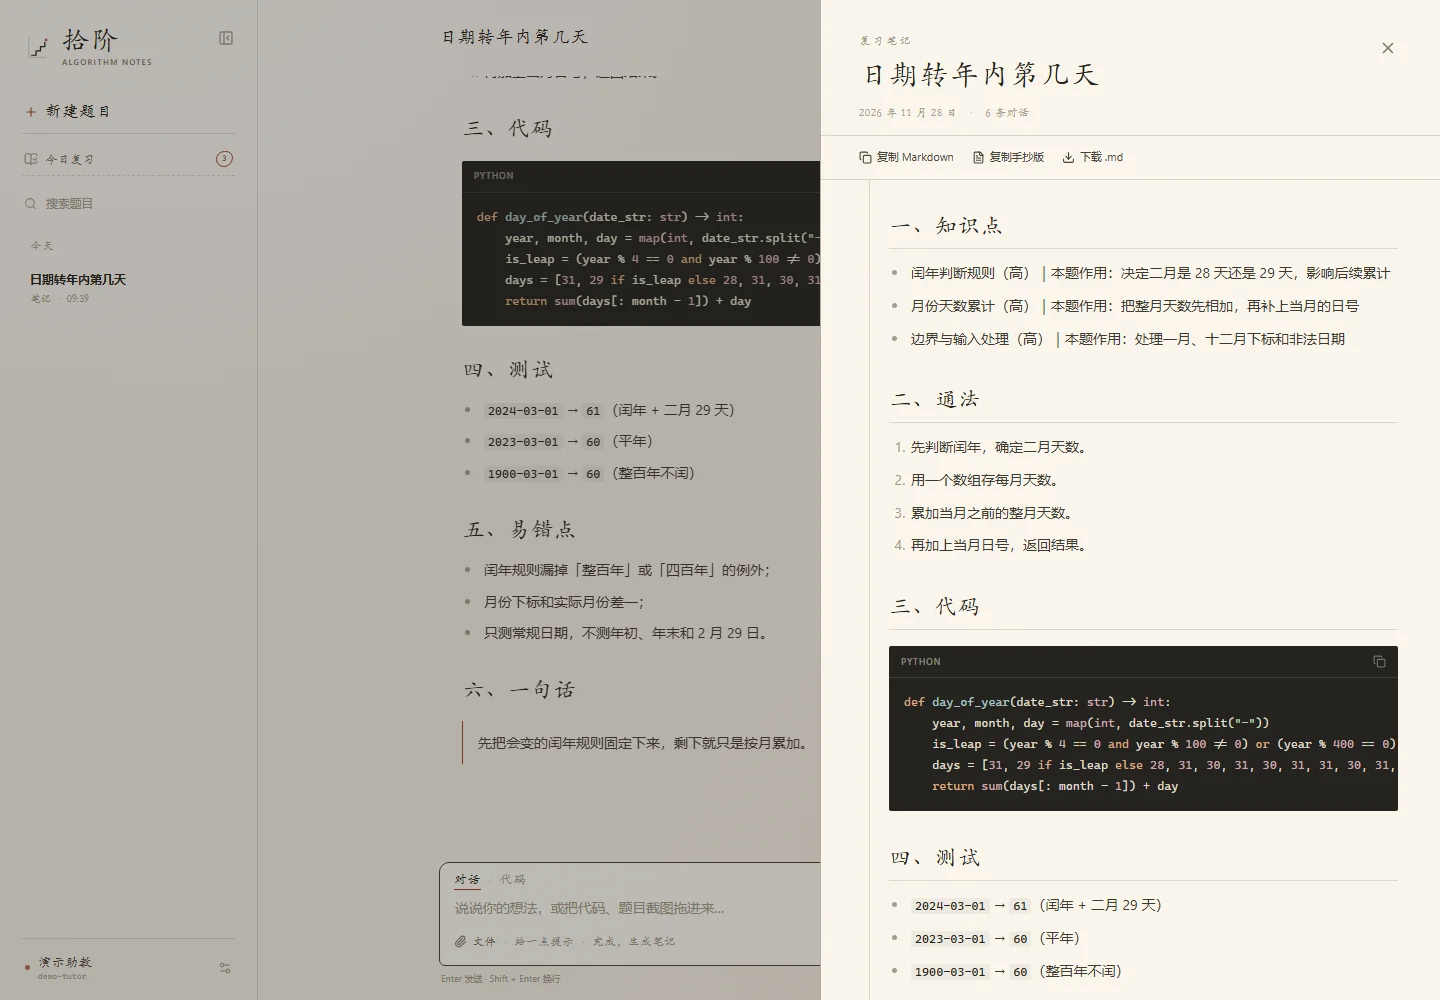
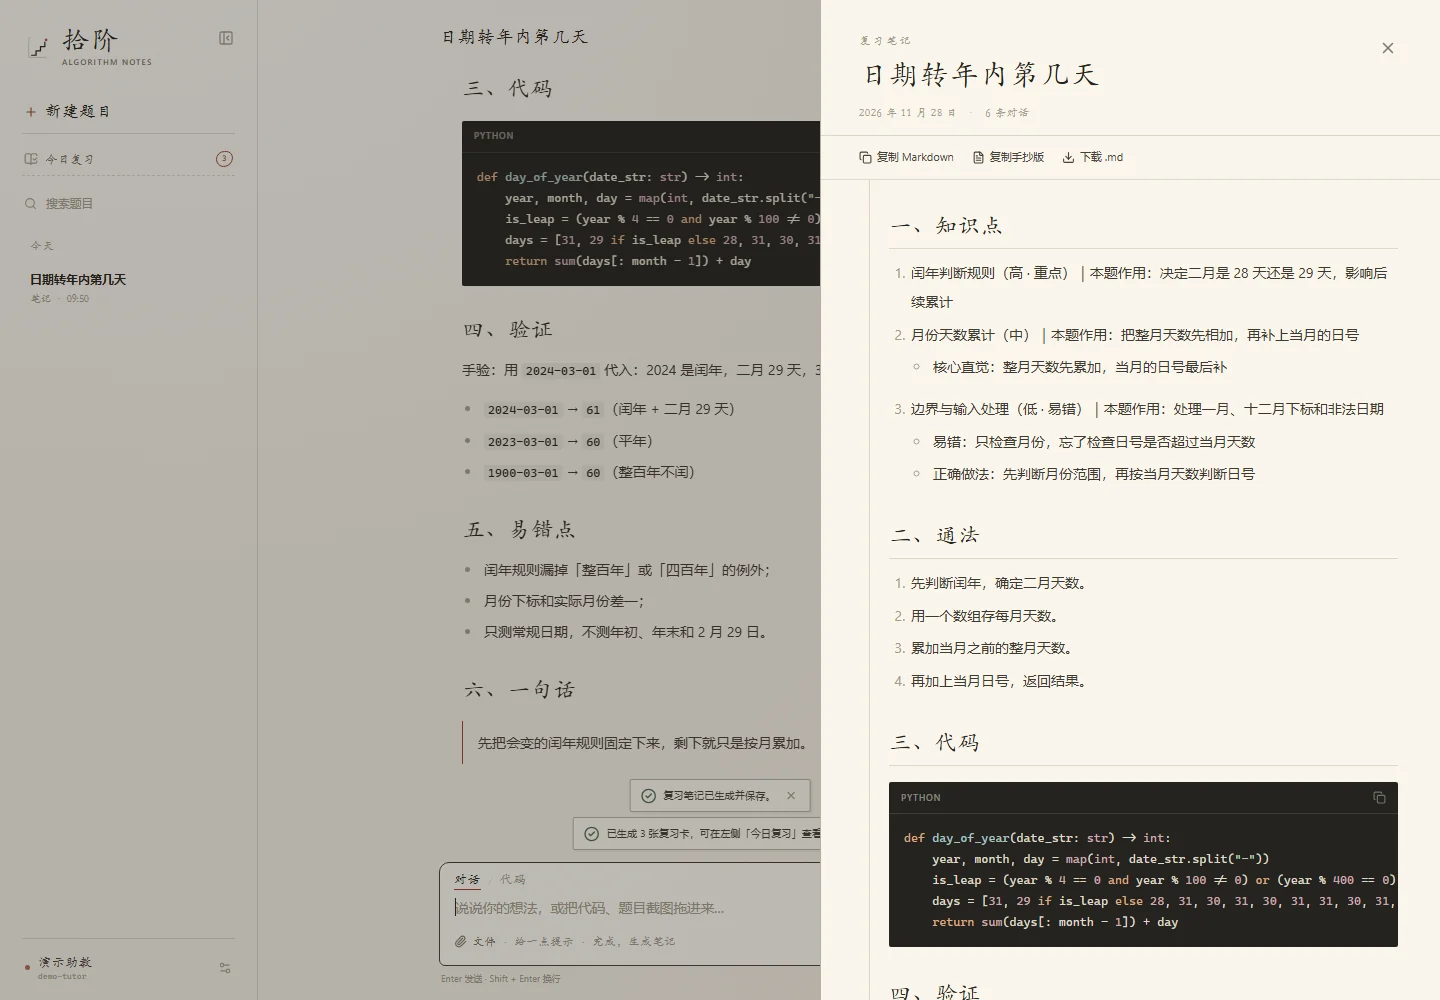
Make notes adapt their detail to mastery
- Give mastered points one line, middle points an intuition, and weak points a trap plus correction
- Add priority and error tags sparingly, a concrete hand-check, and errors from the actual conversation
- Keep nested detail to one sub-list level and update the demo note and screenshot

diff --git a/algo-tutor/src/lib/utils.ts b/algo-tutor/src/lib/utils.ts
@@ -93,7 +93,7 @@ export function markdownToPlainText(markdown: string): string {
     .replace(/__(.*?)__/g, '$1')
     .replace(/(?<!\w)\*([^*\n]+)\*(?!\w)/g, '$1')
     .replace(/`([^`]+)`/g, '$1')
-    .replace(/^[ \t]*[-+*][ \t]+/gm, '· ')
+    .replace(/^([ \t]*)[-+*][ \t]+/gm, '$1· ')
     .replace(/^[ \t]*\|?[ \t]*:?-{3,}:?[ \t]*(\|[ \t]*:?-{3,}:?[ \t]*)+\|?[ \t]*$/gm, '')
     .replace(/^[ \t]*\|(.+)\|[ \t]*$/gm, (_, row: string) =>
       row
